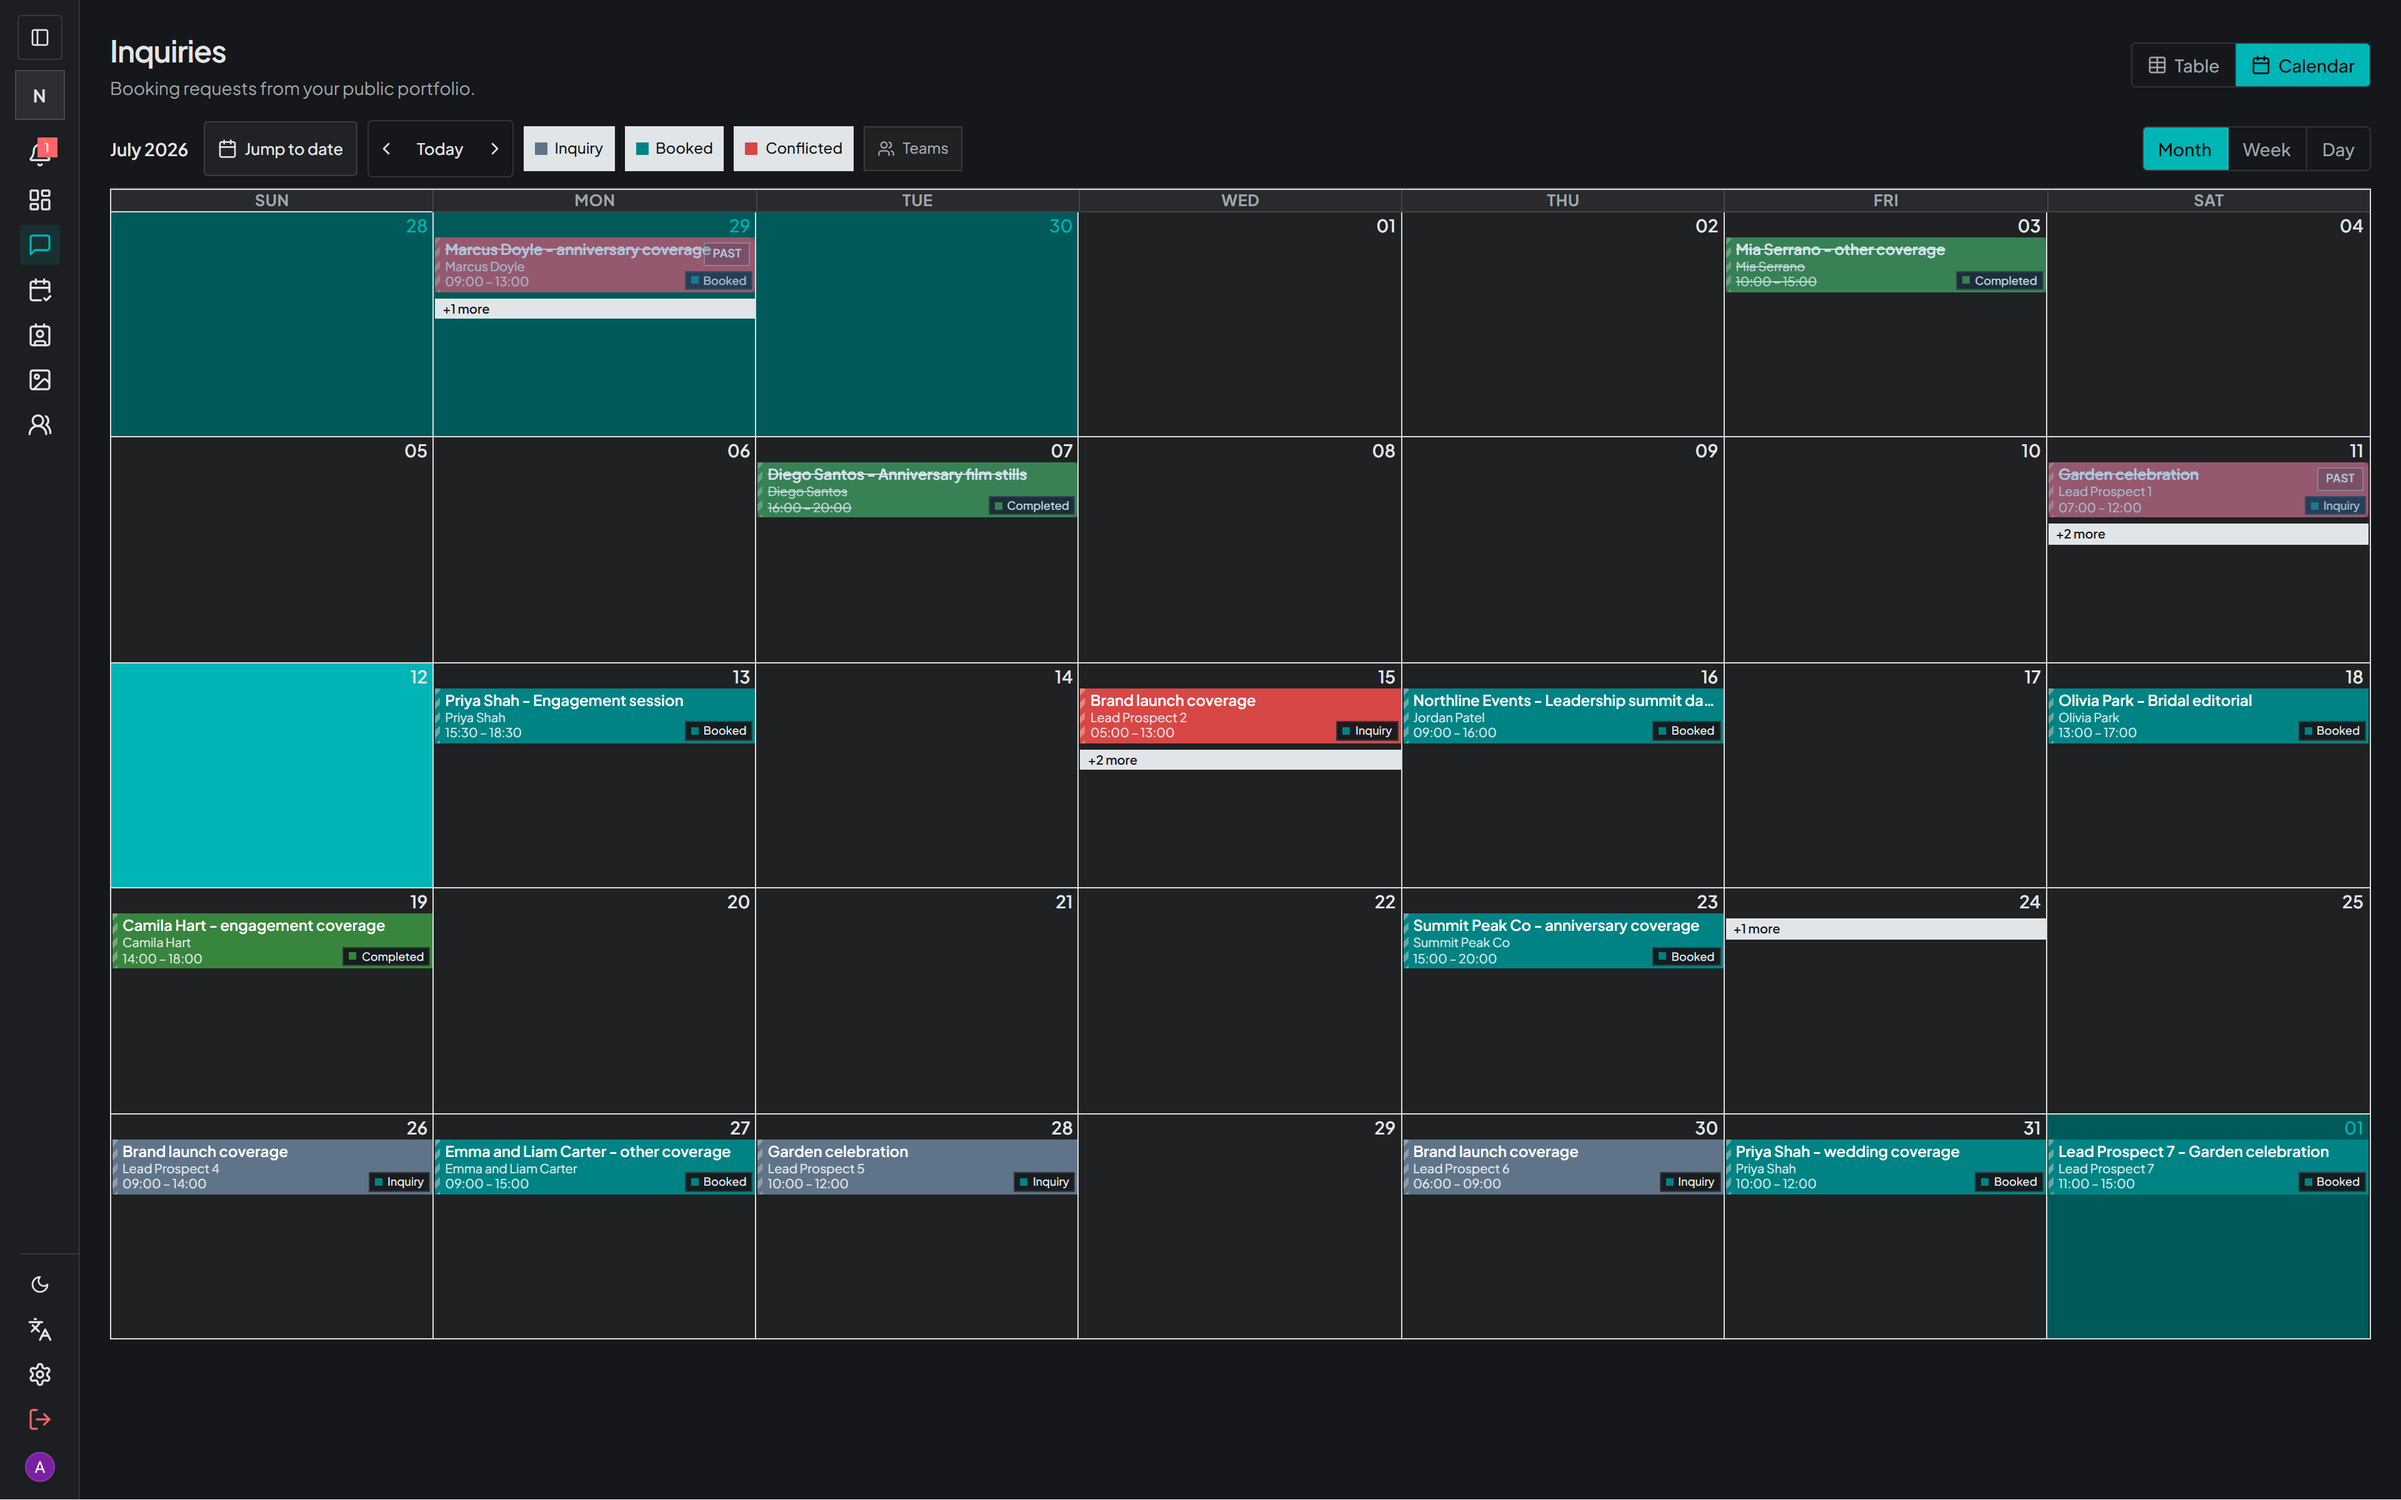
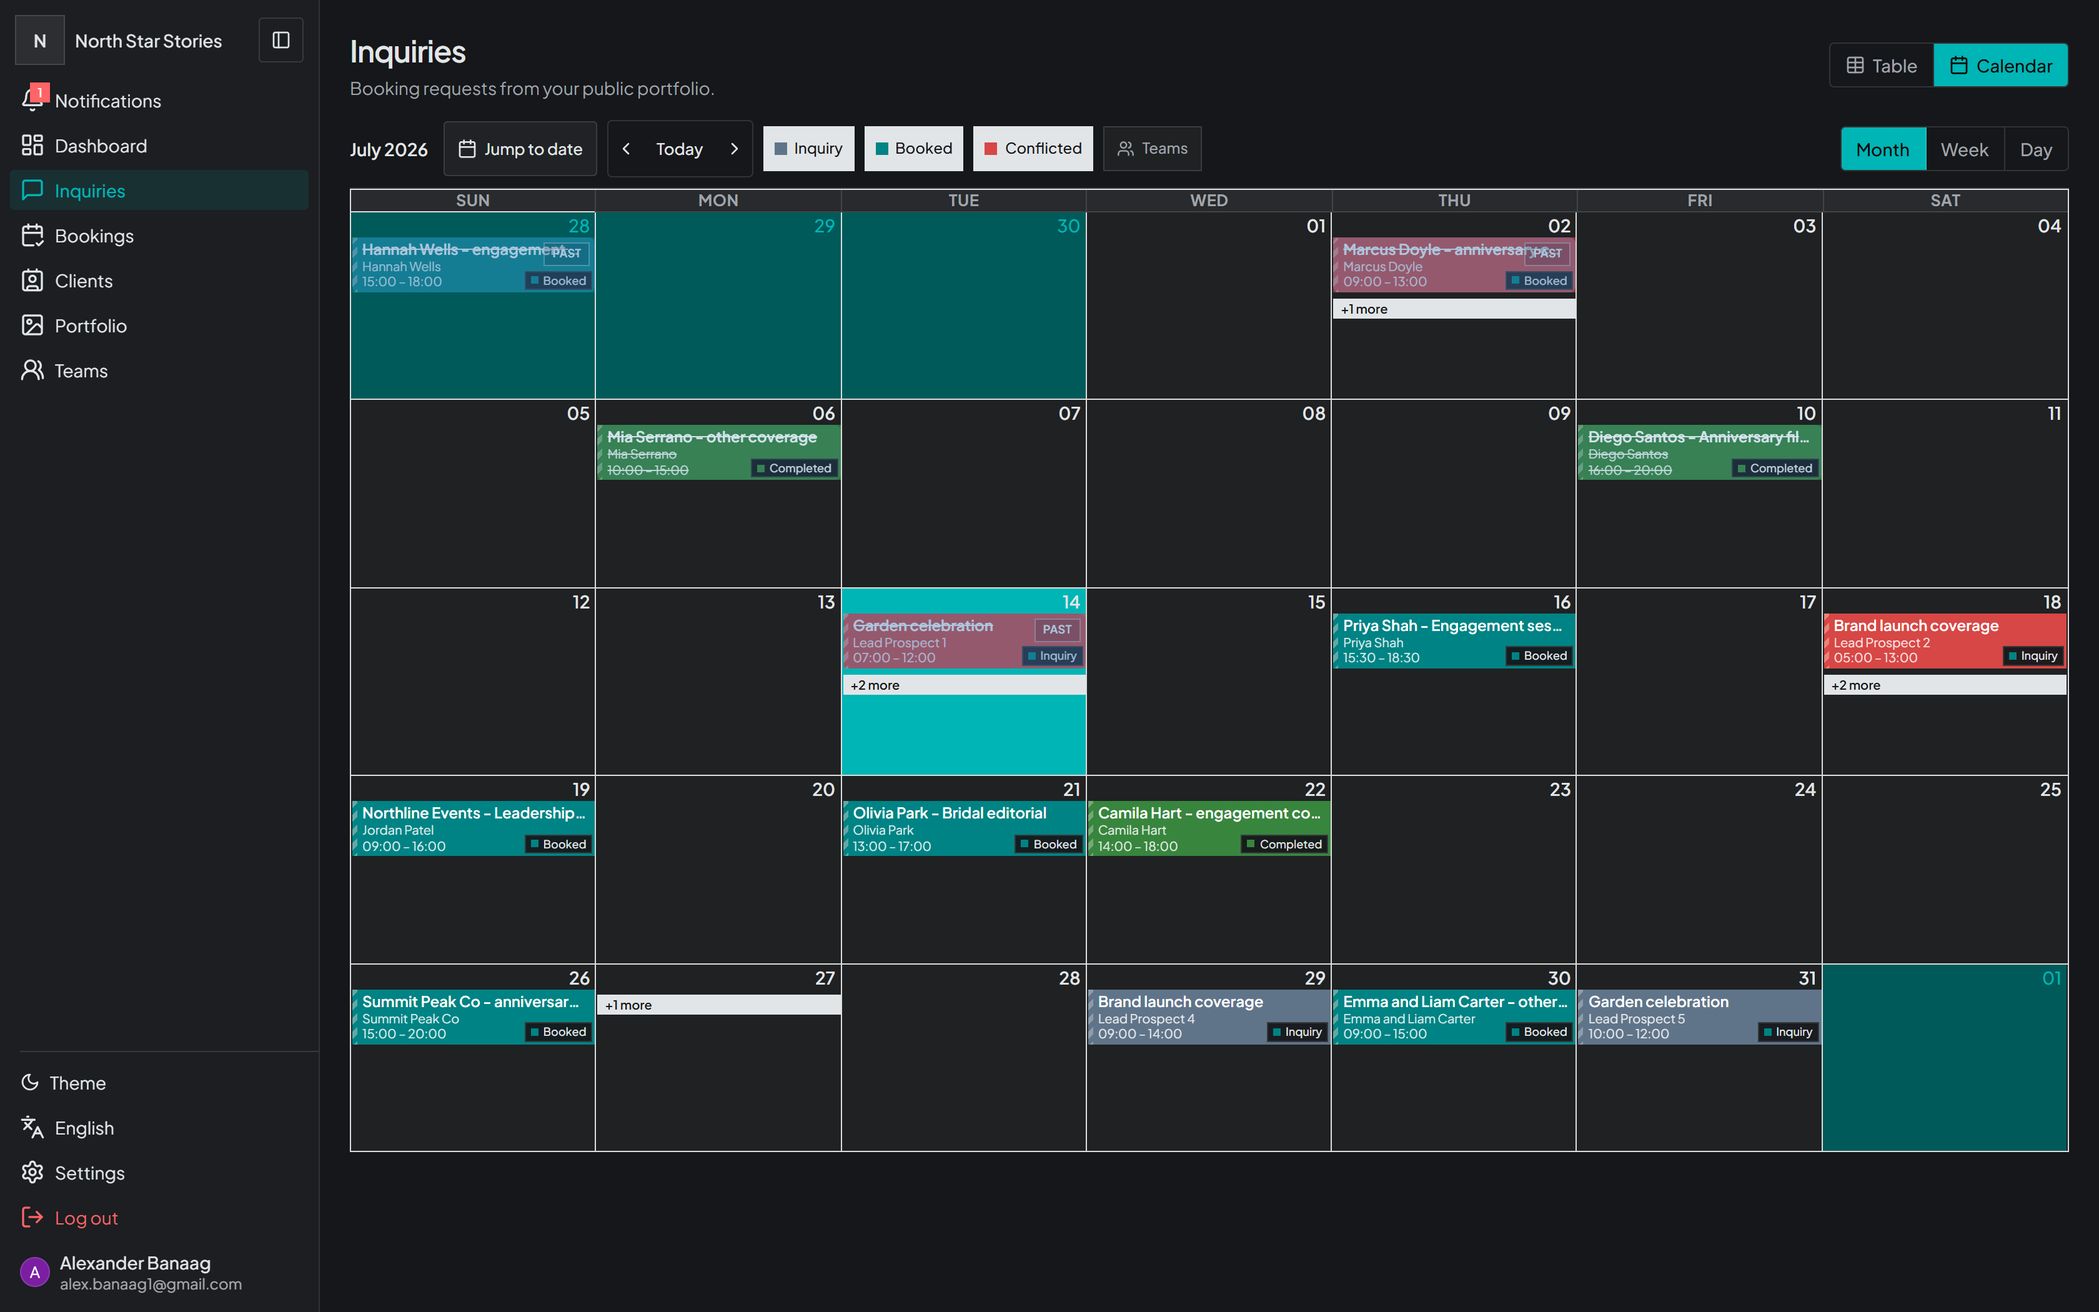
chore(postgres): add Docker setup, backup script, and README for workflow database

diff --git a/app/[locale]/(app)/dashboard/_components/team-performance-cards.tsx b/app/[locale]/(app)/dashboard/_components/team-performance-cards.tsx
@@ -141,14 +141,20 @@ export function TeamPerformanceCards({
           </CardTitle>
           <InfoHint label={t("hints.bookingsPerTeam")} />
         </CardHeader>
-        <CardContent className="h-48">
+        <CardContent className="min-h-48 flex-1">
           <ResponsiveContainer width="100%" height="100%">
             <BarChart
               data={barData}
               layout="vertical"
               margin={{ top: 0, right: isRtl ? 0 : 8, bottom: 0, left: isRtl ? 8 : 0 }}
             >
-              <XAxis type="number" hide allowDecimals={false} reversed={isRtl} />
+              <XAxis
+                type="number"
+                hide
+                allowDecimals={false}
+                domain={[0, "dataMax"]}
+                reversed={isRtl}
+              />
               <YAxis
                 type="category"
                 dataKey="name"

diff --git a/app/[locale]/(app)/dashboard/_components/team-performance-cards.test.tsx b/app/[locale]/(app)/dashboard/_components/team-performance-cards.test.tsx
@@ -64,4 +64,18 @@ describe("TeamPerformanceCards bar chart RTL axes", () => {
     expect(captured.yAxis?.orientation).toBe("right");
     expect(captured.xAxis?.reversed).toBe(true);
   });
+
+  it("scales the booking axis to the highest booking count", () => {
+    renderWithProviders(
+      <TeamPerformanceCards
+        revenueByTeam={revenueByTeam}
+        bookingsByTeam={bookingsByTeam}
+        currency="PHP"
+        locale="en"
+      />,
+      { locale: "en" }
+    );
+
+    expect(captured.xAxis?.domain).toEqual([0, "dataMax"]);
+  });
 });

diff --git a/deploy/postgres/README.md b/deploy/postgres/README.md
@@ -1,0 +1,50 @@
+# Gallurio Workflow Postgres
+
+This stack is only for the Workflow DevKit Postgres World. Gallurio's product
+data remains in MongoDB.
+
+## Start the isolated database
+
+Run these commands on the VPS from this directory:
+
+```bash
+cp .env.example .env
+chmod 600 .env
+# Edit .env and replace POSTGRES_PASSWORD with a long random value.
+docker compose --env-file .env up -d
+docker compose --env-file .env ps
+```
+
+The database is persisted in the Docker volume
+`gallurio-workflow-postgres-data`. PostgreSQL is bound to `127.0.0.1` only;
+it is not reachable from the public internet.
+
+## Bootstrap the Workflow schema
+
+After the Gallurio release image is available on the VPS, run the setup command
+from that image/container with `WORKFLOW_POSTGRES_URL` pointing at this database:
+
+```bash
+pnpm exec workflow-postgres-setup
+```
+
+The final app container should share the Compose network and use `workflow-postgres`
+as the hostname. During this preparation phase, a host-side connection uses
+`127.0.0.1` instead.
+
+## Required application environment
+
+```dotenv
+WORKFLOW_TARGET_WORLD=@workflow/world-postgres
+WORKFLOW_POSTGRES_URL=postgres://gallurio_workflow:<password>@workflow-postgres:5432/gallurio_workflow
+```
+
+Do not use the Local World in production. Keep the password out of images,
+source control, logs, and CI output.
+
+## Backups
+
+The Docker volume is not a backup. Schedule a `pg_dump` to an off-server,
+encrypted destination and test restoring it before accepting real checkout
+traffic. Keep the database volume and backup credentials separate from the app
+container.

diff --git a/docs/RELEASE-CHECKLIST.md b/docs/RELEASE-CHECKLIST.md
@@ -1,8 +1,8 @@
 # Gallurio Beta-to-Production Launch Checklist
 
-Last updated: 2026-07-14 (reconciled after PR #58, Phase 1 decisions, the Resend/WorkOS email verification wiring, and the beta-participation/two-month-promo implementation, team-management fixes, and email/invoice branding consistency work)
+Last updated: 2026-07-15 (reconciled with origin/chore-release-prep, plus Cloudflare Images, MongoDB Atlas, and Resend production setup evidence)
 
-Use this as the release gate for the first production deployment. Checked items are limited to repository work proven by merged code. Production accounts, credentials, servers, backups, DNS records, migrations, timers, monitors, and live transactions remain open until they are configured and tested in the target environment.
+Use this as the release gate for the first production deployment. Checked items are supported either by merged-code evidence or by recorded operational evidence from the named production accounts and infrastructure. Any item marked as progress remains open until it is configured and tested in the target environment.
 
 ## Audited product and architecture baseline
 
